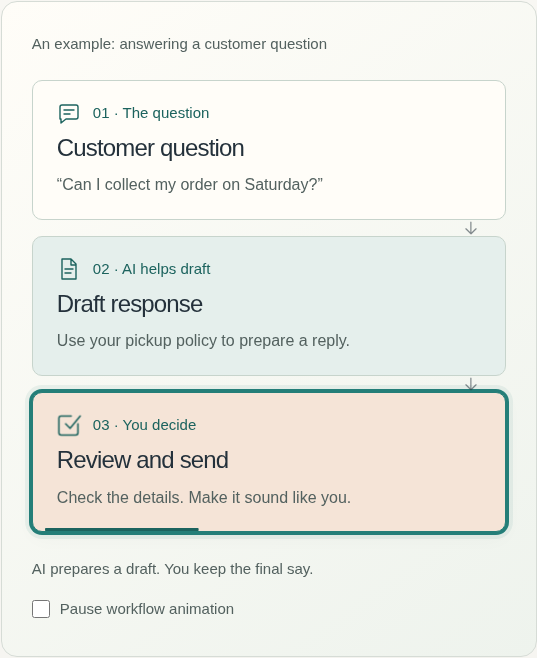
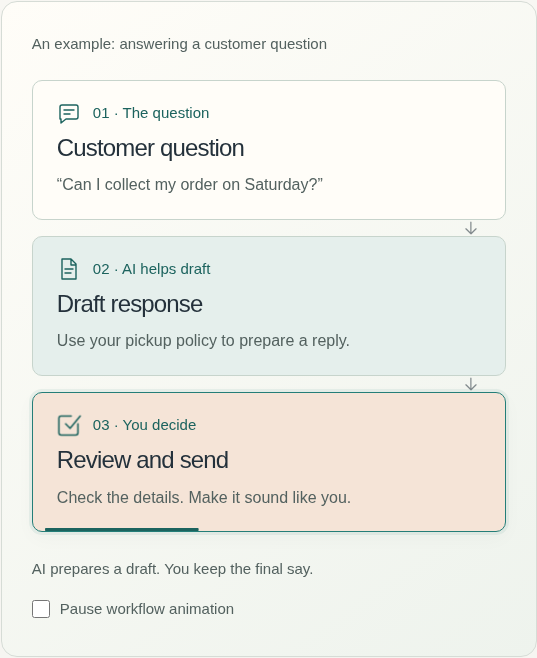
Revert "Thicken the active workflow animation outline"
This reverts commit 9b8e372e04f578bf8e75b73a26063de2fc89529e.

Changed region(s): [[0.0596, 0.5775, 0.9534, 0.8207], [0.0298, 0.6079, 0.0596, 0.7903]]

diff --git a/src/styles/global.css b/src/styles/global.css
@@ -1606,8 +1606,7 @@ h3 {
   27% {
     border-color: var(--teal);
     box-shadow:
-      0 0 0 3px var(--teal),
-      0 0 0 7px #247e7814,
+      0 0 0 3px #247e7814,
       0 6px 20px #24313b08;
   }
 }
